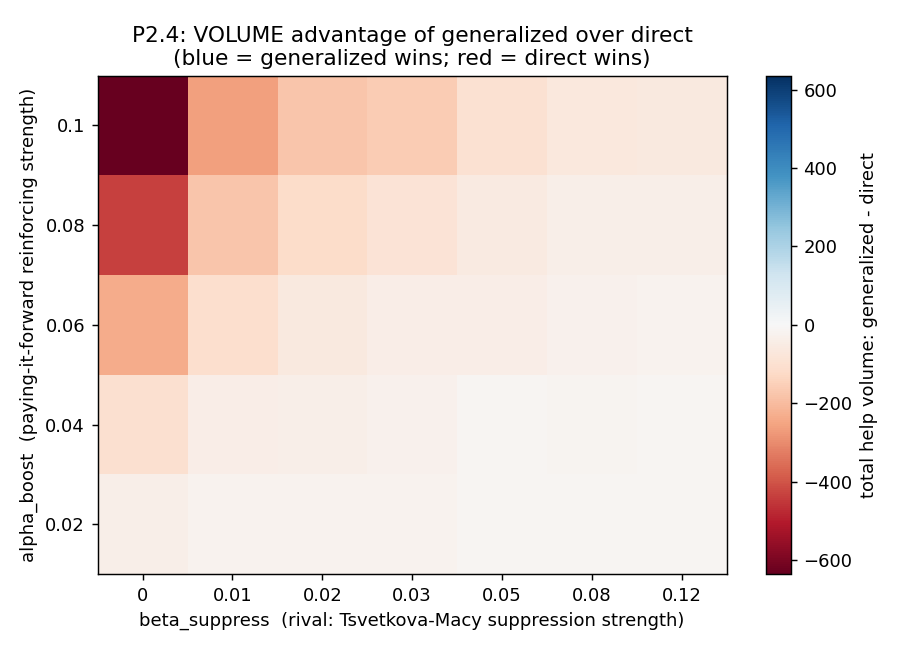
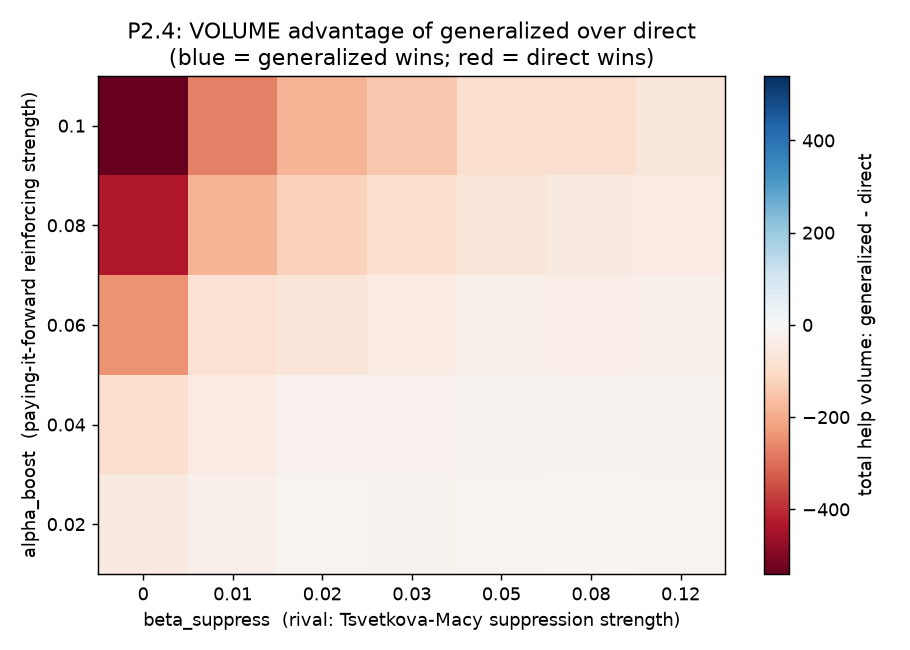
Switch to networkx + conda-forge env; drop pip manifest (Dependabot-quiet)
- environment.yml (conda-forge + nodefaults): adds networkx; no Anaconda
  `defaults` channel (no ToS gate for cloners), so deps live in a conda env
  file that GitHub Dependabot does not parse -> no dependency alerts. Removes
  requirements.txt.
- src/trust_sim.py: graph generation now uses networkx watts_strogatz_graph
  (tested generator; enables centrality-based node placement for P2.5) instead
  of the hand-rolled version; graph seeded by run seed (matched across conditions).
- README.md / PREREG.md: conda env build/run instructions.

ROBUSTNESS CHECK: the P2.4 finding survives the switch to networkx's standard
generator — coherence advantage +0.086 (was +0.088); direct still wins raw volume
in 100% of cells. Regenerated results/ artifacts. The breadth-vs-volume result is
not an artifact of the hand-rolled graph.

Env verified: python 3.12.13, networkx 3.6.1 (conda-forge).

diff --git a/src/trust_sim.py b/src/trust_sim.py
@@ -25,6 +25,7 @@ from __future__ import annotations
 
 from dataclasses import dataclass
 
+import networkx as nx
 import numpy as np
 
 
@@ -48,29 +49,13 @@ class Params:
     t0_sd: float = 0.15          # initial trust-capital stock sd
 
 
-def watts_strogatz(n: int, k: int, p: float, rng: np.random.Generator) -> list[np.ndarray]:
-    """Watts-Strogatz small-world graph as an adjacency list (pure numpy, no networkx)."""
+def watts_strogatz(n: int, k: int, p: float, seed: int) -> list[np.ndarray]:
+    """Watts-Strogatz small-world graph as an adjacency list, via networkx (tested
+    generator rather than hand-rolled). `seed` makes generation deterministic."""
     if k % 2 != 0:
         k += 1
-    nbr: list[set[int]] = [set() for _ in range(n)]
-    half = k // 2
-    for i in range(n):
-        for j in range(1, half + 1):
-            nbr[i].add((i + j) % n)
-            nbr[i].add((i - j) % n)
-    # rewire
-    for i in range(n):
-        for j in range(1, half + 1):
-            if rng.random() < p:
-                old = (i + j) % n
-                choices = [x for x in range(n) if x != i and x not in nbr[i]]
-                if choices:
-                    new = int(rng.choice(choices))
-                    nbr[i].discard(old)
-                    nbr[old].discard(i)
-                    nbr[i].add(new)
-                    nbr[new].add(i)
-    return [np.array(sorted(s), dtype=np.int64) for s in nbr]
+    g = nx.watts_strogatz_graph(n, k, p, seed=seed)
+    return [np.array(sorted(g[i]), dtype=np.int64) for i in range(n)]
 
 
 def _coherence(activity: np.ndarray) -> float:
@@ -95,13 +80,13 @@ def run_once(params: Params, condition: str, seed: int) -> dict:
     if condition not in ("direct", "generalized"):
         raise ValueError(condition)
 
-    rng_struct = np.random.default_rng(seed)          # graph + initial trust (matched)
+    rng_struct = np.random.default_rng(seed)          # initial trust (matched)
     rng_donor = np.random.default_rng(seed + 10_000)  # donor schedule (matched)
     rng_dyn = np.random.default_rng(                  # within-round choices (diverges by design)
         seed + (20_000 if condition == "direct" else 30_000)
     )
 
-    adj = watts_strogatz(params.n, params.k, params.rewire, rng_struct)
+    adj = watts_strogatz(params.n, params.k, params.rewire, seed)  # matched (seed only)
     t = np.clip(rng_struct.normal(params.t0_mean, params.t0_sd, params.n), 0.0, 1.0)
     t0 = t.copy()
     activity = np.zeros(params.n, dtype=np.float64)

diff --git a/README.md b/README.md
@@ -75,9 +75,14 @@ Figures: `results/p2_4_phase_coherence.png`, `results/p2_4_phase_volume.png`,
 ## Run it
 
 ```bash
-pip install -r requirements.txt        # numpy, pandas, matplotlib (no networkx needed)
-python3 run_p2_4.py                     # ~10 s; (re)writes results/
+conda env create -f environment.yml     # conda-forge only; creates env "qs-sim"
+conda run -n qs-sim python run_p2_4.py   # ~10 s; (re)writes results/
 ```
+
+Dependencies (numpy, pandas, matplotlib, **networkx**) are declared in
+`environment.yml` on **conda-forge** — no Anaconda `defaults` channel (so no
+Terms-of-Service gate for anyone who clones), and no pip `requirements.txt` (so GitHub
+Dependabot, which parses pip/npm but not conda env files, has nothing to alert on).
 
 Deterministic given the seeds in `run_p2_4.py` (seeds 0–15).
 

diff --git a/PREREG.md b/PREREG.md
@@ -57,6 +57,6 @@ reciprocity ("paying it forward") produces higher cooperation **coherence** and 
 
 ## Reproduce
 ```
-pip install -r requirements.txt   # numpy, pandas, matplotlib
-python3 run_p2_4.py               # ~10 s; writes results/
+conda env create -f environment.yml      # conda-forge; env "qs-sim"
+conda run -n qs-sim python run_p2_4.py   # ~10 s; writes results/
 ```